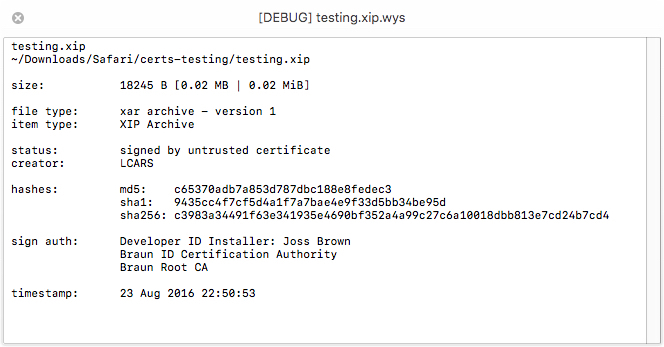
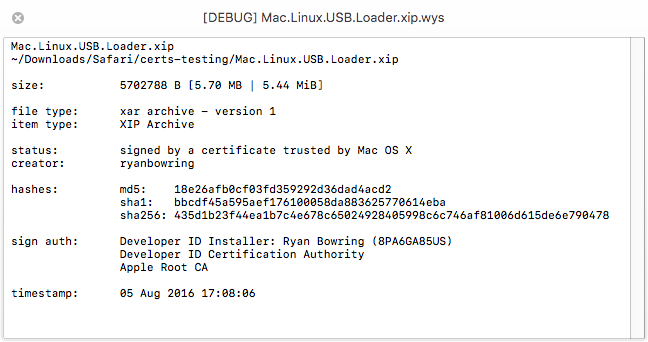
add/corr examples

diff --git a/README.md b/README.md
@@ -57,6 +57,18 @@ In addition to the default WhatsYourSign functionality, **wys** also performs a 
 
 ![grab10](https://github.com/JayBrown/wys-WhatsYourSign-shell-script-version/blob/master/img/grab_wys-app-mas.jpg)
 
+#### Adhoc-signed application
+
+![grab9](https://github.com/JayBrown/wys-WhatsYourSign-shell-script-version/blob/master/img/grab_wys-app-adhoc.jpg)
+
+#### Unsigned application
+
+![grab8](https://github.com/JayBrown/wys-WhatsYourSign-shell-script-version/blob/master/img/grab_wys-app-unsigned.jpg)
+
+#### Codesigned binary command line interface
+
+![grab6](https://github.com/JayBrown/wys-WhatsYourSign-shell-script-version/blob/master/img/grab_wys-binary.jpg)
+
 #### Codesigned disk image (DMG)
 
 ![grab4](https://github.com/JayBrown/wys-WhatsYourSign-shell-script-version/blob/master/img/grab_wys-dmg.jpg)
@@ -69,18 +81,10 @@ In addition to the default WhatsYourSign functionality, **wys** also performs a 
 
 ![grab5](https://github.com/JayBrown/wys-WhatsYourSign-shell-script-version/blob/master/img/grab_wys-pkg.jpg)
 
-#### Codesigned binary command line interface
-
-![grab6](https://github.com/JayBrown/wys-WhatsYourSign-shell-script-version/blob/master/img/grab_wys-binary.jpg)
-
-#### Unsigned application
-
-![grab8](https://github.com/JayBrown/wys-WhatsYourSign-shell-script-version/blob/master/img/grab_wys-app-unsigned.jpg)
-
-#### Adhoc-signed application
-
-![grab9](https://github.com/JayBrown/wys-WhatsYourSign-shell-script-version/blob/master/img/grab_wys-app-adhoc.jpg)
-
-#### Signed xip archive
+#### xip archive signed with Developer ID
 
 ![grab11](https://github.com/JayBrown/wys-WhatsYourSign-shell-script-version/blob/master/img/grab_wys-xip.jpg)
+
+#### xip archive signed with locally trusted key
+
+![grab14](https://github.com/JayBrown/wys-WhatsYourSign-shell-script-version/blob/master/img/grab_wys-xip-user.jpg)
